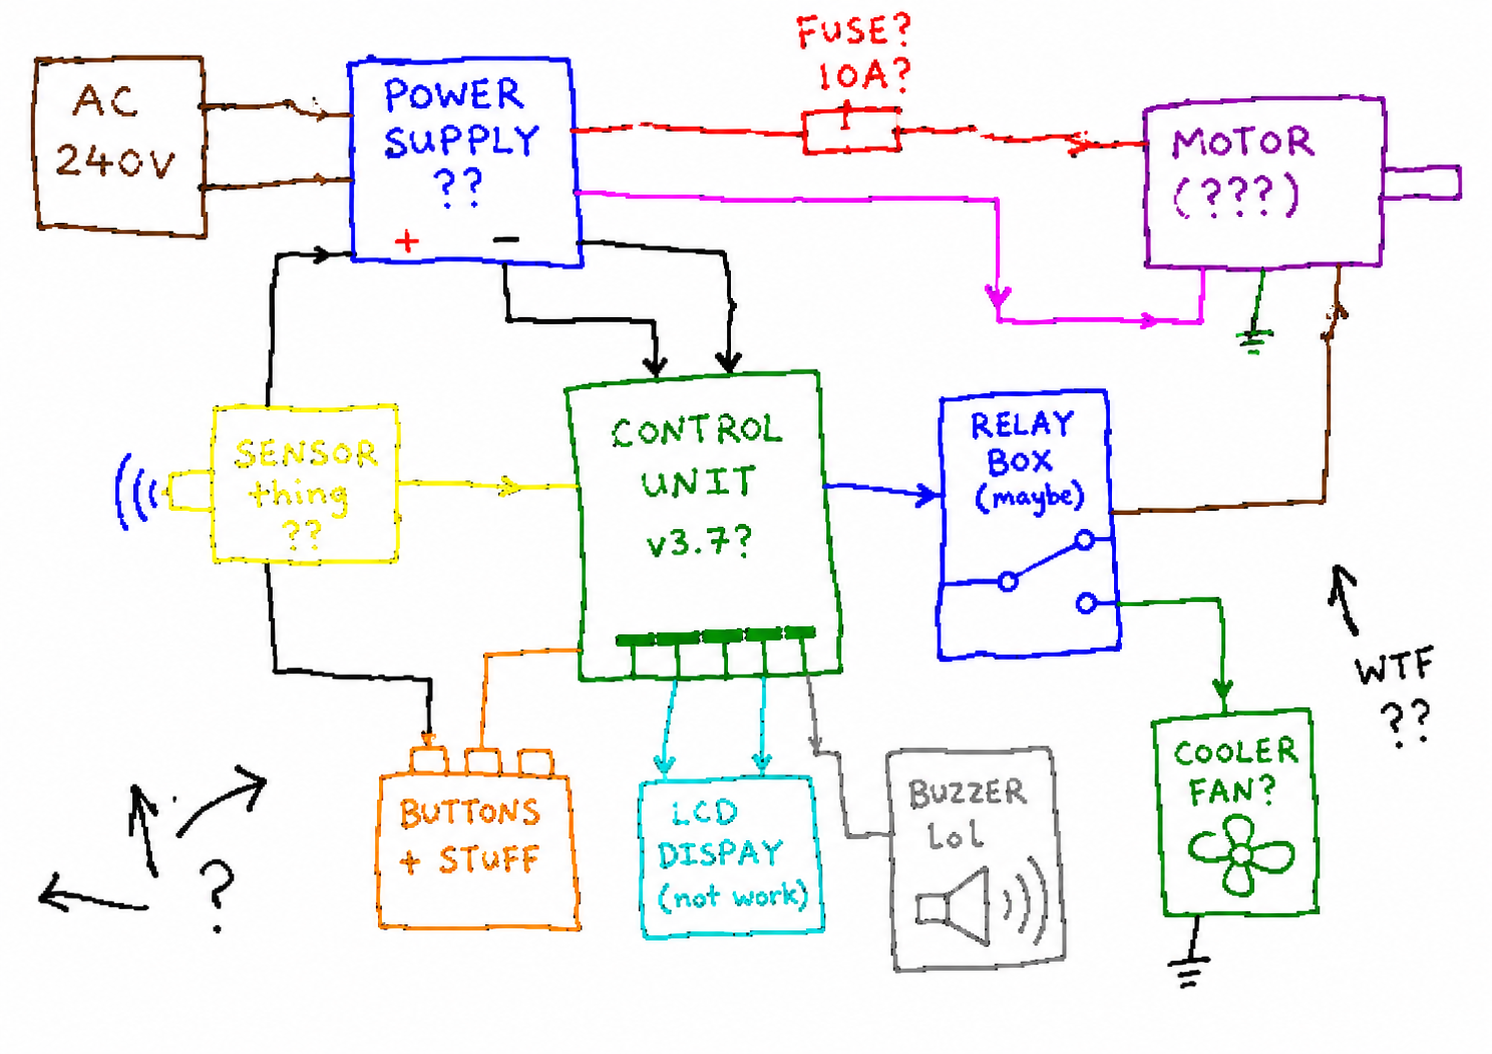
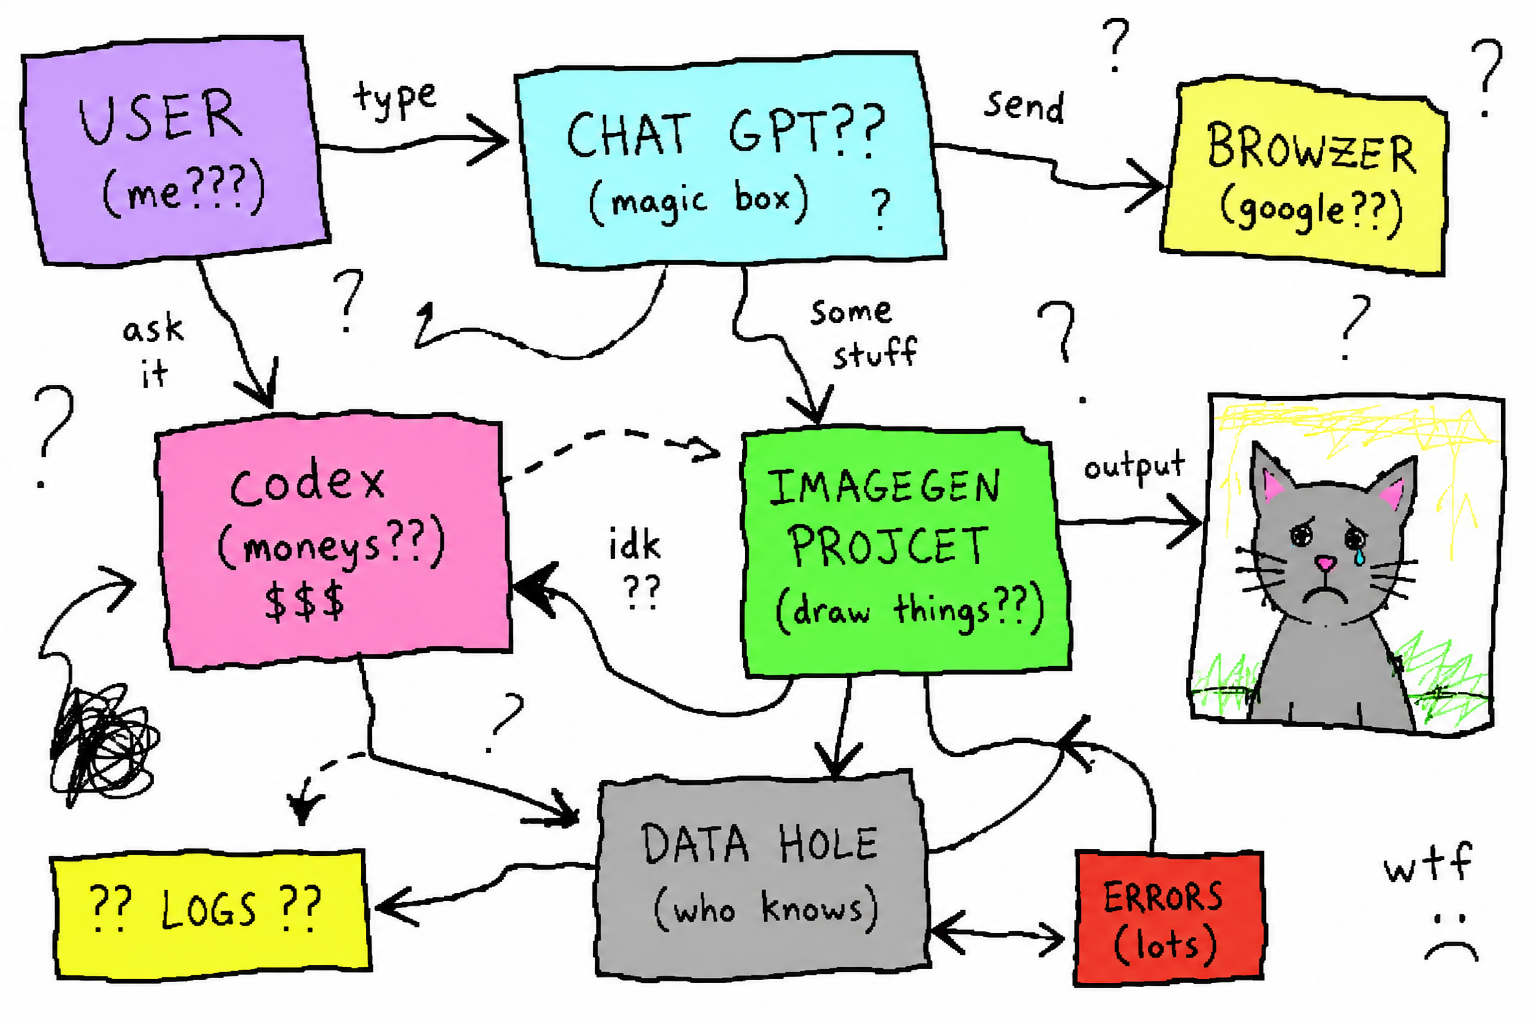
docs: 用本工具重新生成 README 示例插图（自画双后端架构涂鸦）
dogfooding：示例图改为让工具把自己的双后端架构画成
"故意很烂"的老式画图程序鼠标涂鸦（大色块、白底、低清、
像又不像），经 v0.5.0 web 后端生成并自动归档进 imagegen 项目

diff --git a/README.md b/README.md
@@ -133,8 +133,8 @@ OUT=$(chatgpt-imagegen "icon" --quiet)
 echo "saved to $OUT"
 ```
 
-<img src="./docs/example-doodle.png" width="320" alt="example output"><br>
-<sub>Example output — made by this tool (asked for a deliberately awful MS-Paint schematic).</sub>
+<img src="./docs/example-doodle.png" width="420" alt="example output"><br>
+<sub>Example output — made by this tool (asked to draw its own two-backend architecture as a deliberately awful, mouse-drawn MS-Paint doodle).</sub>
 
 ## What works / what doesn't
 

diff --git a/README.zh-CN.md b/README.zh-CN.md
@@ -131,8 +131,8 @@ OUT=$(chatgpt-imagegen "icon" --quiet)
 echo "saved to $OUT"
 ```
 
-<img src="./docs/example-doodle.png" width="320" alt="出图示例"><br>
-<sub>出图示例 —— 本工具生成(要求画一张"故意很烂"的老式画图程序原理图)。</sub>
+<img src="./docs/example-doodle.png" width="420" alt="出图示例"><br>
+<sub>出图示例 —— 本工具生成(让它把自己的双后端架构画成一张"故意很烂"、鼠标在老式画图程序里蹭出来的涂鸦)。</sub>
 
 ## 能做什么 / 不能做什么
 